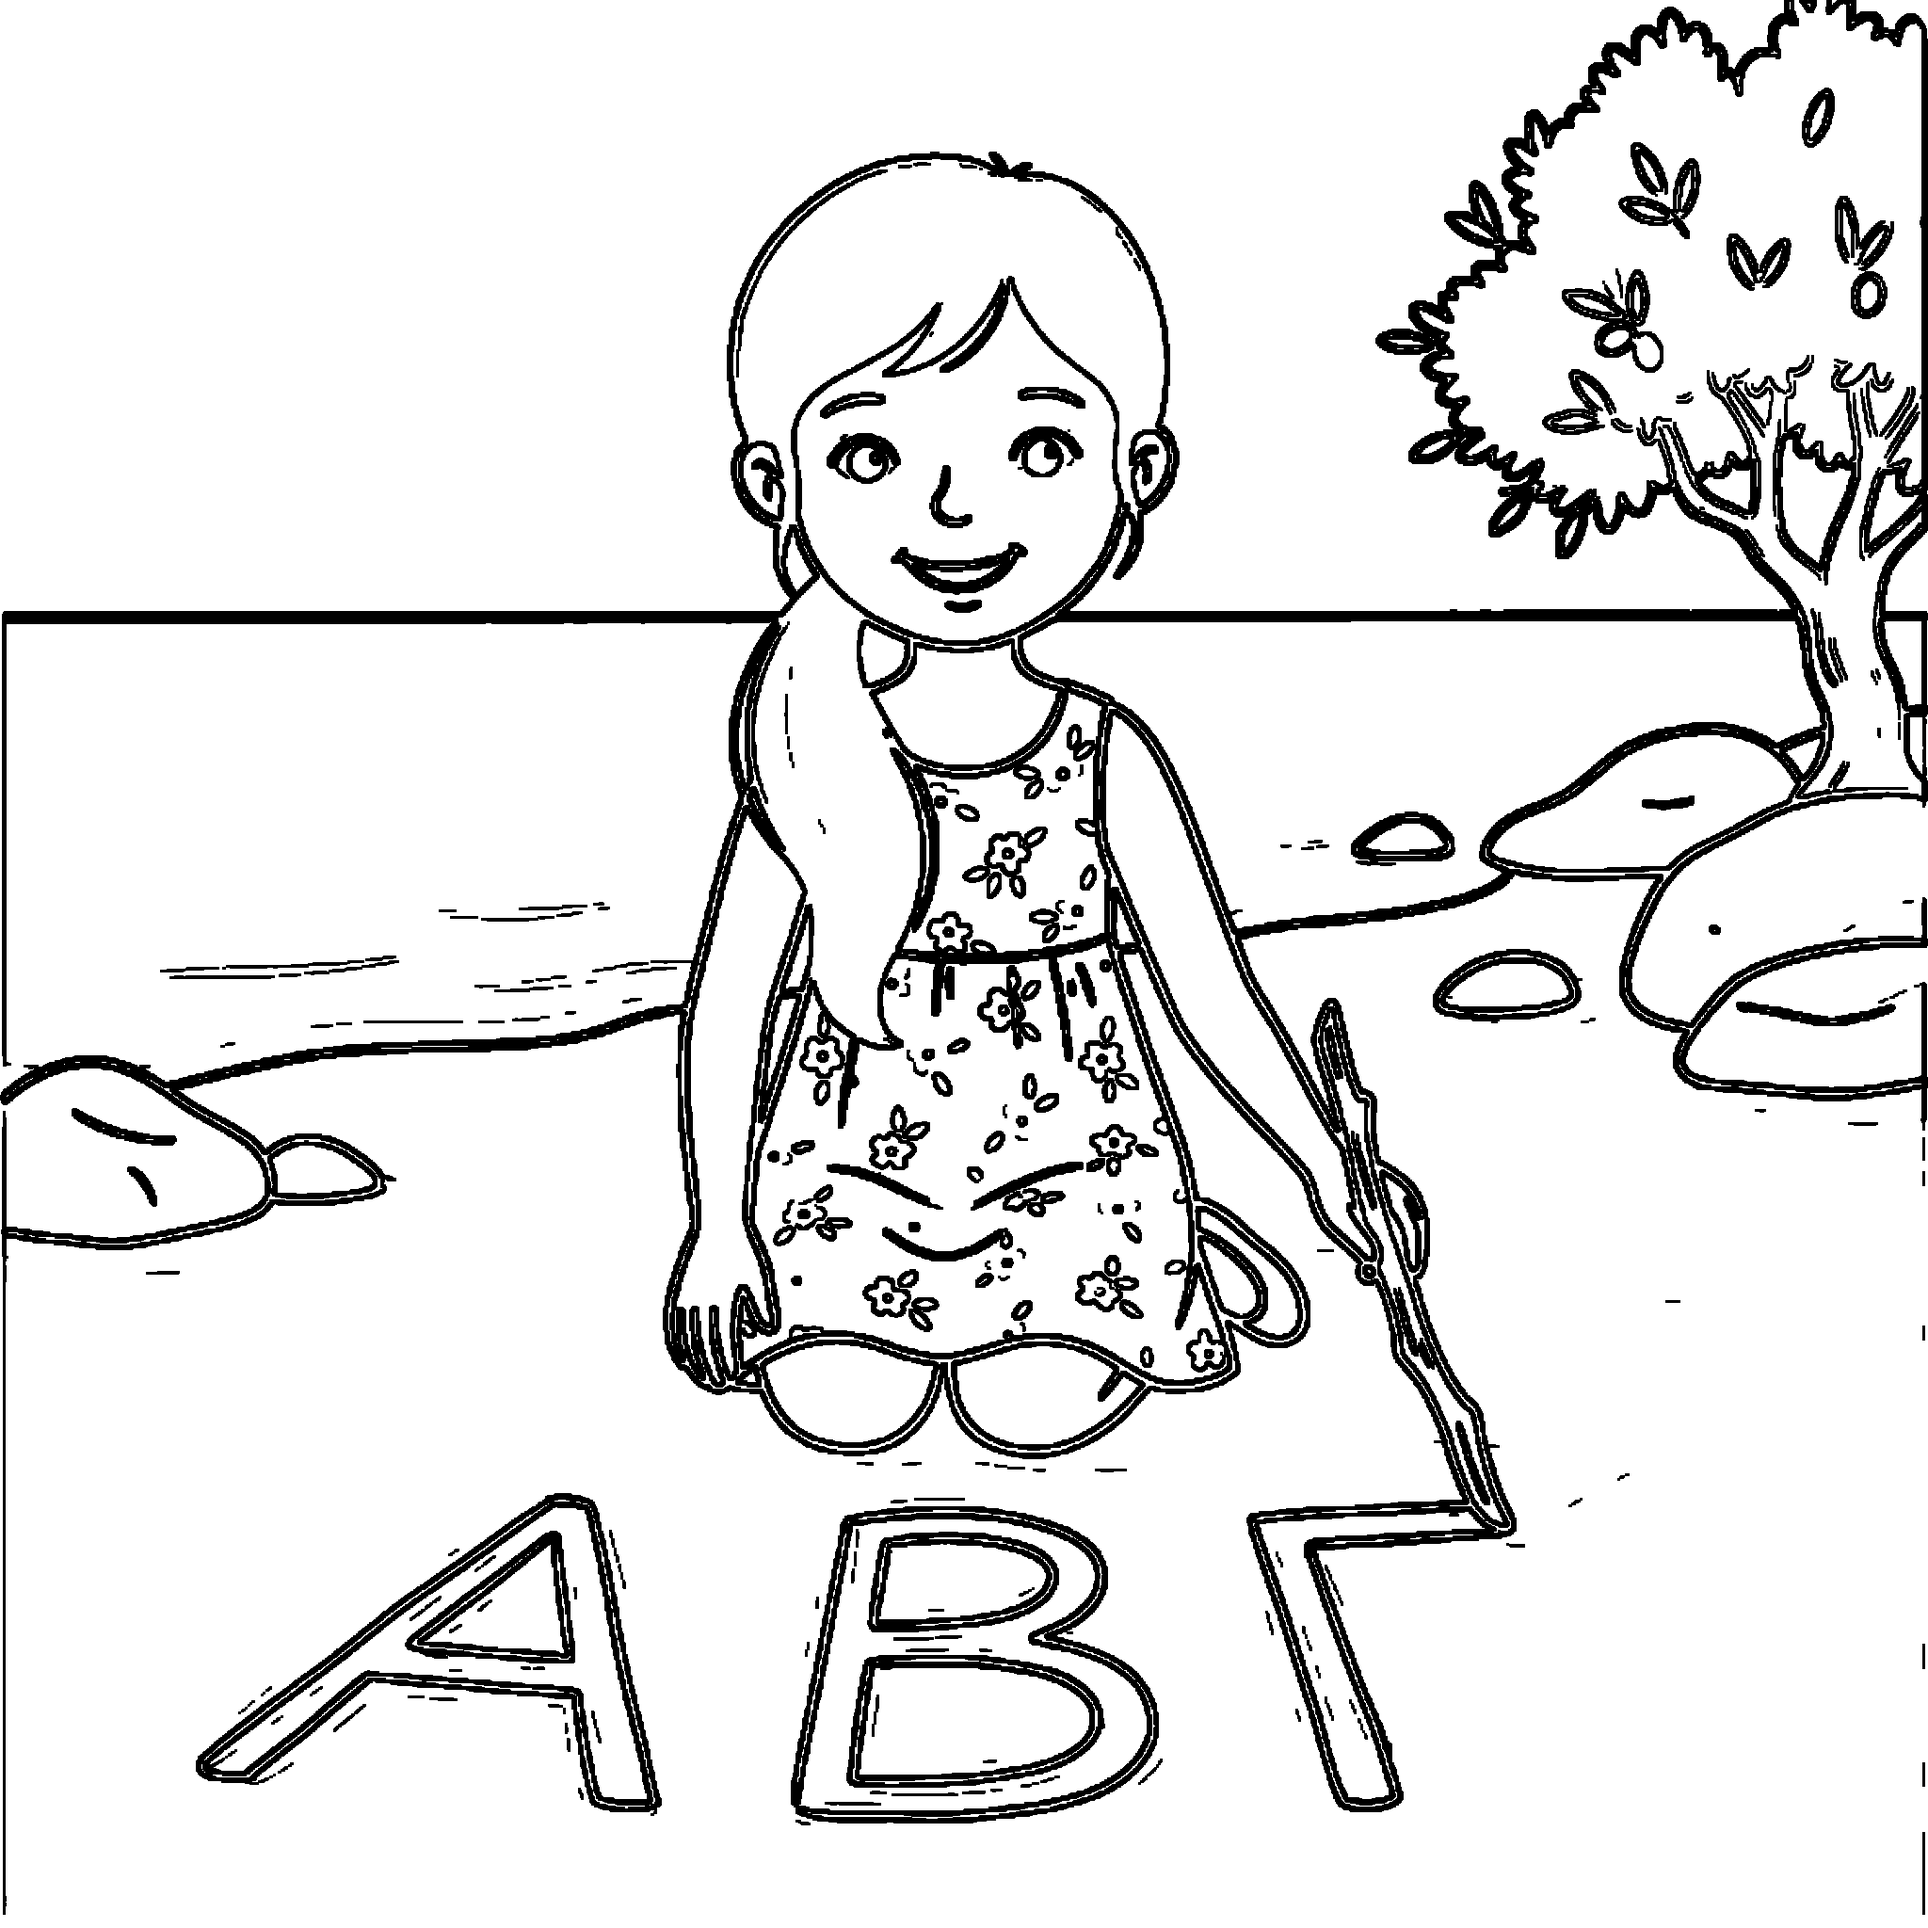
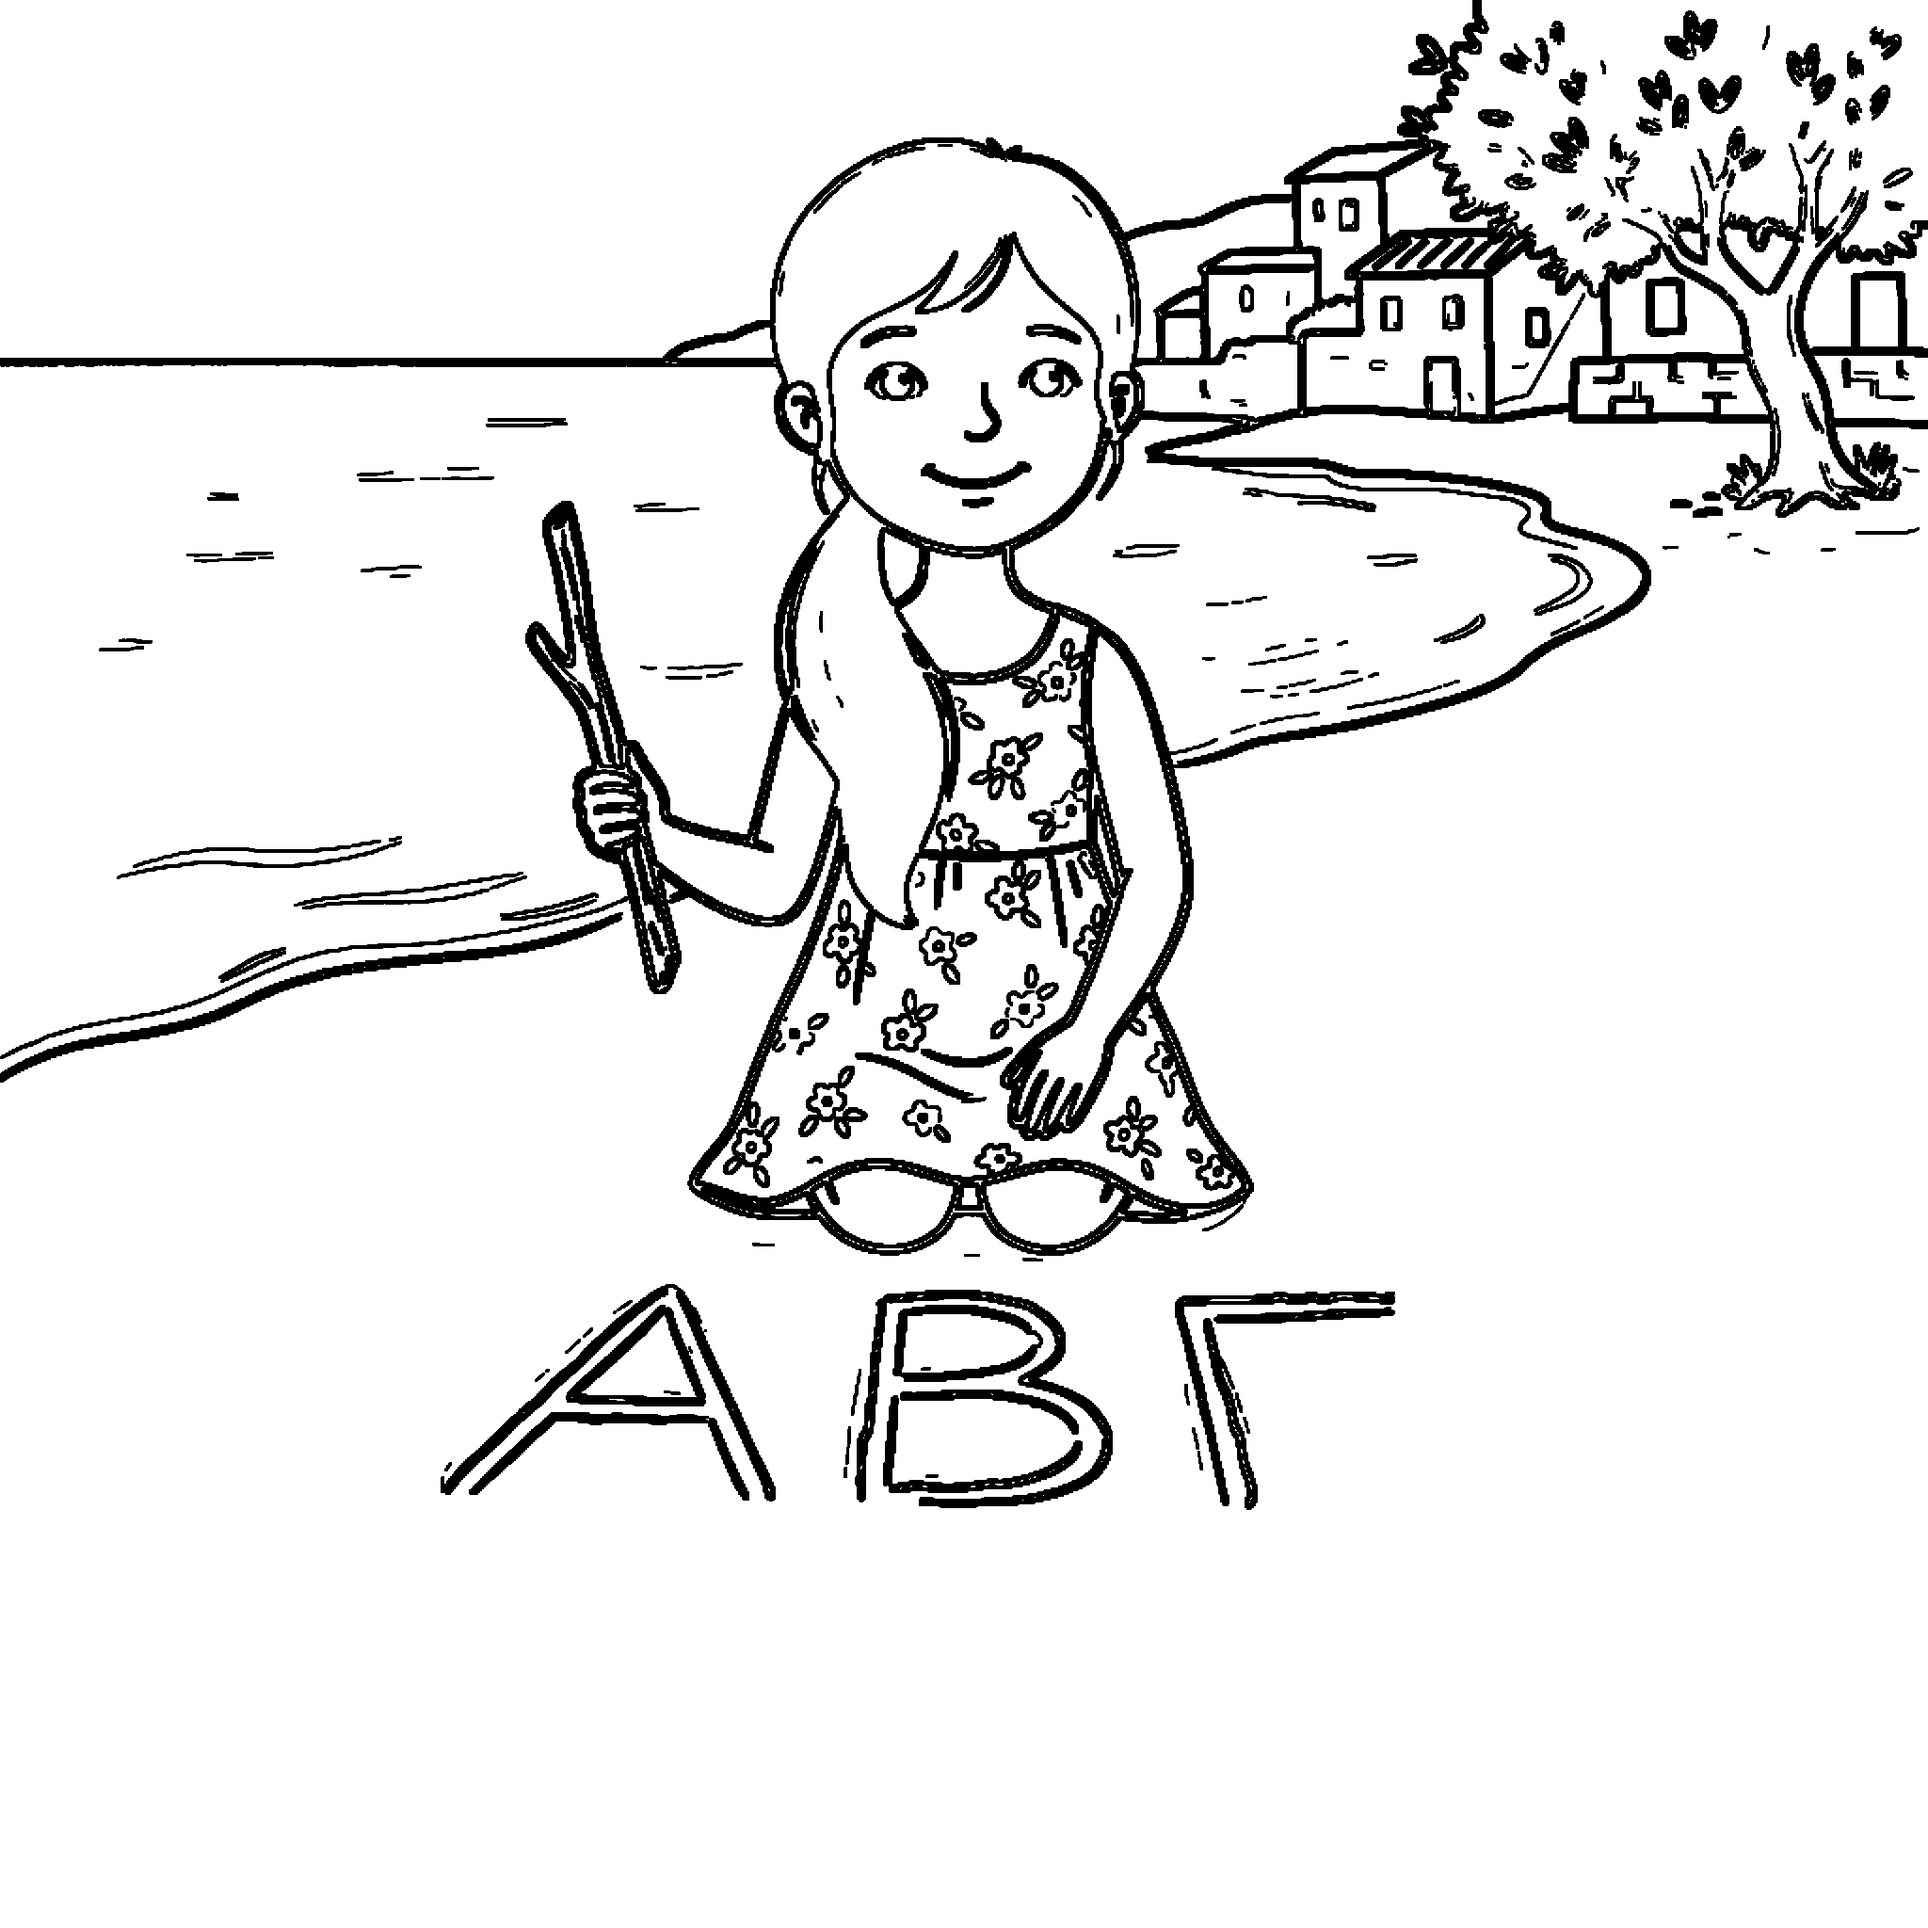
alpha

diff --git a/service-worker.js b/service-worker.js
@@ -1,6 +1,6 @@
 // Griechisch Lernen — Service Worker
 // Version hochzählen bei jedem Update auf GitHub!
-var CACHE_NAME = 'griechisch-lernen-v57';
+var CACHE_NAME = 'griechisch-lernen-v58';
 
 var STATIC_FILES = [
   '/griechisch-lernen/',
